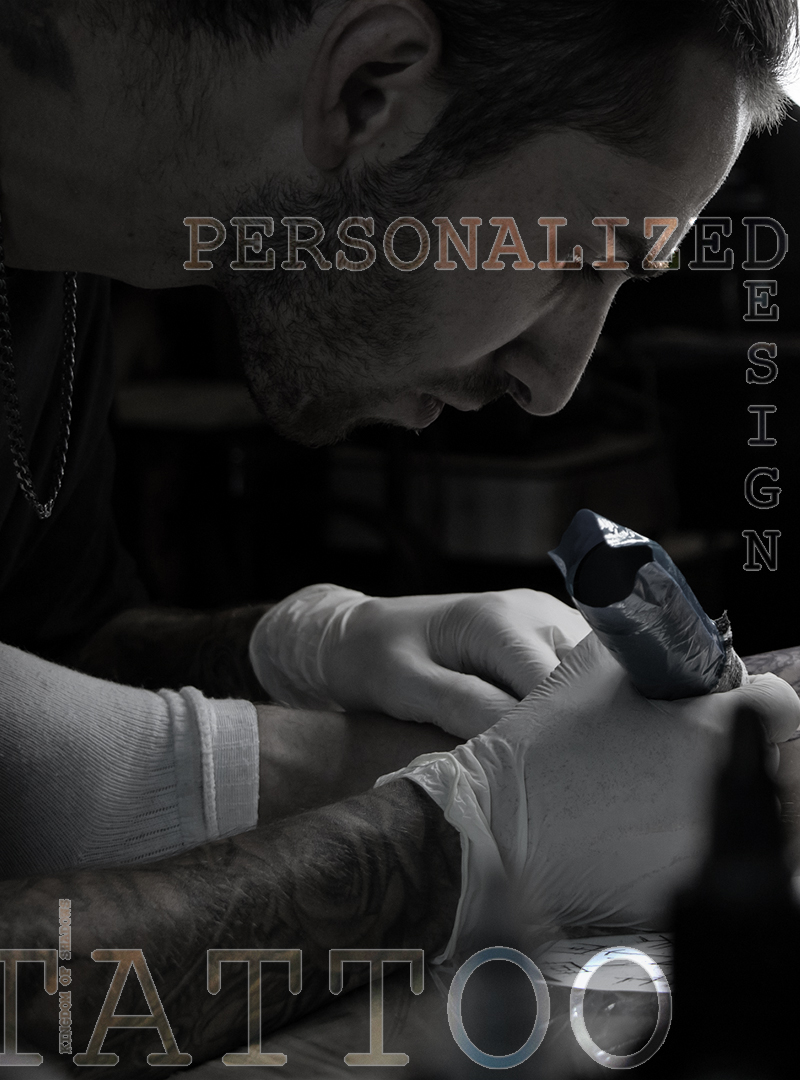
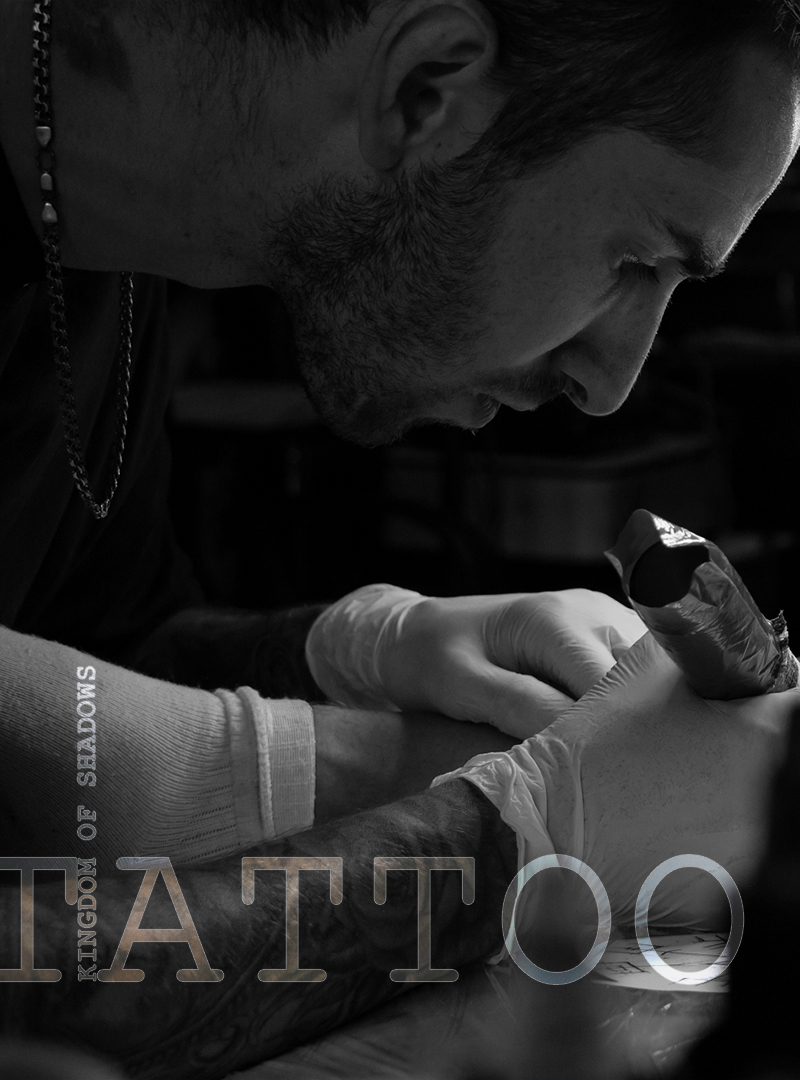
Edit images and appointment

diff --git a/assets/css/style.css b/assets/css/style.css
@@ -1107,8 +1107,9 @@ footer>p {
     }
 
     #appointment>a {
-        left: 90px;
-        bottom: 40px;
+        left: 310px;
+        bottom: 70px;
+        width: 100%;
     }
 
     #menu {
